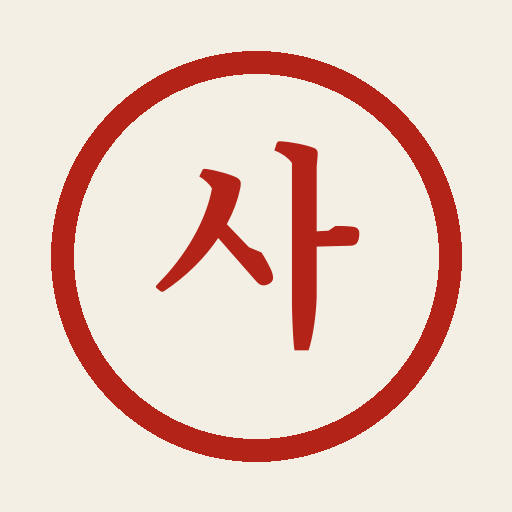
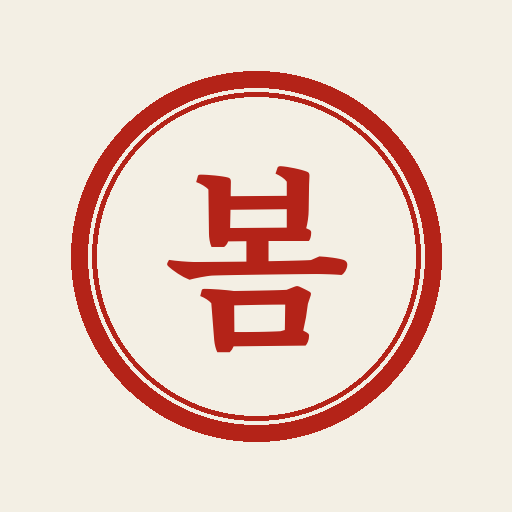
표시 이름을 사주봄으로 바꿉니다.
가칭 사주·원국 브랜드 크롬을 헤더, PWA, 법적 문서, OG에서 교체합니다. 풀이 안의 명리 용어 원국은 그대로 둡니다.

Changed region(s): [[0.0938, 0.0938, 0.9062, 0.9062], [0.3125, 0.25, 0.7188, 0.6875]]

diff --git a/src/pages.js b/src/pages.js
@@ -5,7 +5,7 @@ export function pagePrivacy() {
     <article class="legal-page">
       <h1>개인정보처리방침</h1>
       <p class="updated">시행일 2026년 8월 19일 · 운영자 임대균 · limdg01@gmail.com</p>
-      <p>이 서비스(가칭 「사주」)는 만세력 사주팔자 명식을 브라우저에서 계산해 보여 주는 웹 앱입니다. 회원가입이 없고, 운영자 서버에 생년월일을 저장하지 않습니다.</p>
+      <p>이 서비스(「사주봄」)는 만세력 사주팔자 명식을 브라우저에서 계산해 보여 주는 웹 앱입니다. 회원가입이 없고, 운영자 서버에 생년월일을 저장하지 않습니다.</p>
 
       <h2>1. 수집하는 정보</h2>
       <ul>
@@ -49,7 +49,7 @@ export function pageTerms() {
       <p class="updated">시행일 2026년 8월 19일 · 운영자 임대균 · limdg01@gmail.com</p>
 
       <h2>1. 목적</h2>
-      <p>이 약관은 가칭 「사주」 웹 앱의 이용 조건을 정합니다. 모바일 브라우저(Safari, Chrome)에서 바로 쓰며, 별도의 앱 스토어 설치가 필요하지 않습니다.</p>
+      <p>이 약관은 「사주봄」 웹 앱의 이용 조건을 정합니다. 모바일 브라우저(Safari, Chrome)에서 바로 쓰며, 별도의 앱 스토어 설치가 필요하지 않습니다.</p>
 
       <h2>2. 운영자</h2>
       <p>개인 운영자 임대균. 연락처 <a href="mailto:limdg01@gmail.com">limdg01@gmail.com</a>. 사업자등록번호는 아직 없습니다(사업자정보 준비중).</p>
@@ -79,7 +79,7 @@ export function pageTerms() {
       <p>공유 링크에는 입력값이 들어갑니다. 타인의 생년월일을 무단으로 퍼뜨리지 마세요. 서비스를 남용하여 다른 이용자를 방해하지 마세요.</p>
 
       <h2>8. 지식재산</h2>
-      <p>화면 문구, 디자인, 가칭 「사주」 표기에 관한 권리는 운영자에게 있습니다. 만세력 계산 라이브러리(manseryeok 등)의 권리는 각 권리자에게 있습니다.</p>
+      <p>화면 문구, 디자인, 「사주봄」 표기에 관한 권리는 운영자에게 있습니다. 만세력 계산 라이브러리(manseryeok 등)의 권리는 각 권리자에게 있습니다.</p>
 
       <h2>9. 면책</h2>
       <p>서비스는 있는 그대로 제공됩니다. 결과의 이용으로 생긴 손해에 대해, 운영자는 고의 또는 중대한 과실이 없는 한 책임지지 않습니다. 접속 장애, 브라우저 차이, 절입표의 한계가 있을 수 있습니다. 가상 결제로 생긴 해제 기록은 이 브라우저를 지우면 사라집니다.</p>
@@ -132,7 +132,7 @@ export function pageNotFound() {
   return `
     <div class="notfound">
       <h1>이 주소는 없습니다</h1>
-      <p>사주 · 리포트 · 요금 · 설정, 또는 <a href="${withBase("/manse")}">만세력 계산기</a>로 가 주세요.</p>
+      <p>사주봄 · 리포트 · 요금 · 설정, 또는 <a href="${withBase("/manse")}">만세력 계산기</a>로 가 주세요.</p>
       <p><a class="text-link" href="${withBase("/")}">처음으로</a></p>
     </div>
   `;

diff --git a/index.html b/index.html
@@ -3,27 +3,27 @@
   <head>
     <meta charset="UTF-8">
     <meta name="viewport" content="width=device-width, initial-scale=1, viewport-fit=cover">
-    <title>사주 — 만세력 사주팔자 명식 (절입 기준)</title>
+    <title>사주봄 — 만세력 사주팔자 명식 (절입 기준)</title>
     <meta name="description" content="만세력으로 사주팔자 명식을 한 장에. 월주는 절입, 자시는 야자시 기본. 진태양시는 적용하지 않습니다. 생년월일은 브라우저에서만 계산합니다.">
     <link rel="canonical" href="/">
-    <meta property="og:title" content="사주 — 만세력 사주팔자 명식">
+    <meta property="og:title" content="사주봄 — 만세력 사주팔자 명식">
     <meta property="og:description" content="절입 기준 명식. 사주팔자, 오행, 십성, 대운을 한 장에. 야자시 기본, 진태양시 없는 v1.">
     <meta property="og:type" content="website">
     <meta property="og:locale" content="ko_KR">
-    <meta property="og:site_name" content="사주">
+    <meta property="og:site_name" content="사주봄">
     <meta property="og:url" content="/">
     <meta property="og:image" content="/og.png">
     <meta property="og:image:width" content="1200">
     <meta property="og:image:height" content="630">
     <meta name="twitter:card" content="summary_large_image">
-    <meta name="twitter:title" content="사주 — 만세력 사주팔자 명식">
+    <meta name="twitter:title" content="사주봄 — 만세력 사주팔자 명식">
     <meta name="twitter:description" content="절입 기준 명식. 사주팔자 명식을 한 장에.">
     <meta name="twitter:image" content="/og.png">
     <meta name="theme-color" content="#f3efe4">
     <meta name="mobile-web-app-capable" content="yes">
     <meta name="apple-mobile-web-app-capable" content="yes">
     <meta name="apple-mobile-web-app-status-bar-style" content="default">
-    <meta name="apple-mobile-web-app-title" content="사주">
+    <meta name="apple-mobile-web-app-title" content="사주봄">
     <link rel="manifest" href="/manifest.json">
     <link rel="apple-touch-icon" href="/apple-touch-icon.png">
     <link rel="icon" href="/favicon.svg" type="image/svg+xml">
@@ -34,7 +34,7 @@
     {
       "@context": "https://schema.org",
       "@type": "WebApplication",
-      "name": "사주",
+      "name": "사주봄",
       "applicationCategory": "LifestyleApplication",
       "operatingSystem": "Web",
       "inLanguage": "ko",

diff --git a/src/seo.js b/src/seo.js
@@ -1,6 +1,6 @@
 import { withBase } from "./base.js";
 
-const DEFAULT_TITLE = "사주 — 만세력 사주팔자 명식 (절입 기준)";
+const DEFAULT_TITLE = "사주봄 — 만세력 사주팔자 명식 (절입 기준)";
 const DEFAULT_DESC =
   "만세력으로 사주팔자 명식을 한 장에. 월주는 절입, 자시는 야자시 기본. 진태양시는 적용하지 않습니다. 생년월일은 브라우저에서만 계산합니다.";
 
@@ -46,12 +46,12 @@ const PAGES = {
     path: "/settings",
   },
   privacy: {
-    title: "개인정보처리방침 — 사주",
+    title: "개인정보처리방침 — 사주봄",
     description: "생년월일을 서버로 보내지 않습니다. 브라우저에서만 계산하며, 명식과 해제는 이 기기에만 남습니다.",
     path: "/privacy",
   },
   terms: {
-    title: "이용약관 — 사주",
+    title: "이용약관 — 사주봄",
     description: "오락·참고용 만세력 명식입니다. 의학·법률·재정 자문이 아니며 결과를 보장하지 않습니다. 만 14세 이상에게 권합니다.",
     path: "/terms",
   },
@@ -85,7 +85,7 @@ export function applySeo(view, extra) {
     ["og:url", url],
     ["og:image", absUrl("/og.png")],
     ["og:locale", "ko_KR"],
-    ["og:site_name", "사주"],
+    ["og:site_name", "사주봄"],
     ["og:type", "website"],
   ];
   for (const [prop, value] of pairs) {

diff --git a/src/ui.js b/src/ui.js
@@ -16,7 +16,7 @@ export function chipClass(on) {
 export function renderMasthead(tag = "v1 · 절기 명식") {
   return `
     <header class="masthead">
-      <a class="brand" href="${withBase("/")}"><span class="seal">사</span><span class="wordmark">사주</span></a>
+      <a class="brand" href="${withBase("/")}"><span class="seal">봄</span><span class="wordmark">사주봄</span></a>
       <span class="tag">${tag}</span>
     </header>
   `;
@@ -26,7 +26,7 @@ export function renderFooter() {
   return `
     <footer class="site-foot">
       <p>
-        <a href="${withBase("/")}">사주</a> · 임대균 ·
+        <a href="${withBase("/")}">사주봄</a> · 임대균 ·
         <a href="mailto:limdg01@gmail.com">limdg01@gmail.com</a> ·
         <a href="${withBase("/terms")}">이용약관</a> ·
         <a href="${withBase("/privacy")}">개인정보처리방침</a> ·
@@ -37,7 +37,7 @@ export function renderFooter() {
 }
 
 const TABS = [
-  { id: "home", path: "/", label: "사주" },
+  { id: "home", path: "/", label: "사주봄" },
   { id: "reports", path: "/reports", label: "리포트" },
   { id: "pay", path: "/pay", label: "요금" },
   { id: "settings", path: "/settings", label: "설정" },

diff --git a/src/style.css b/src/style.css
@@ -70,9 +70,9 @@ button { cursor: pointer; }
 }
 .wordmark {
   font-family: var(--serif);
-  font-size: 28px;
+  font-size: 26px;
   font-weight: 700;
-  letter-spacing: 0.12em;
+  letter-spacing: 0.06em;
 }
 .tag {
   font-size: 12px;

diff --git a/WRAP.md b/WRAP.md
@@ -1,10 +1,11 @@
-# 네이티브 앱으로 감싸기
+# 사주봄 — 네이티브 앱으로 감싸기
 
 모바일 브라우저용 PWA입니다. Expo Go가 필요 없습니다.
 Safari / Chrome: https://yun-lim.github.io/wonguk/
 
 display standalone, start_url ./ (상대 경로), theme-color,
 apple-mobile-web-app-capable. Pages 베이스는 /wonguk/ 입니다.
+PWA 표시 이름은 사주봄입니다.
 
 ## Capacitor
 Pages URL을 server.url 로 두면 됩니다.

diff --git a/README.md b/README.md
@@ -1,8 +1,8 @@
-# 사주 (가칭)
+# 사주봄
 
 절입 기준 사주 명식. 생년월일은 브라우저에서만 계산합니다.
 모바일 Safari / Chrome에서 바로 쓰는 웹 앱입니다. Expo Go가 필요 없습니다.
-표시 이름은 가칭 사주입니다. 최종 브랜드가 정해지면 헤더와 매니페스트만 바꾸면 됩니다.
+표시 이름은 사주봄입니다.
 
 ## 경로
 - / 홈 (카드, 저장 명식)
